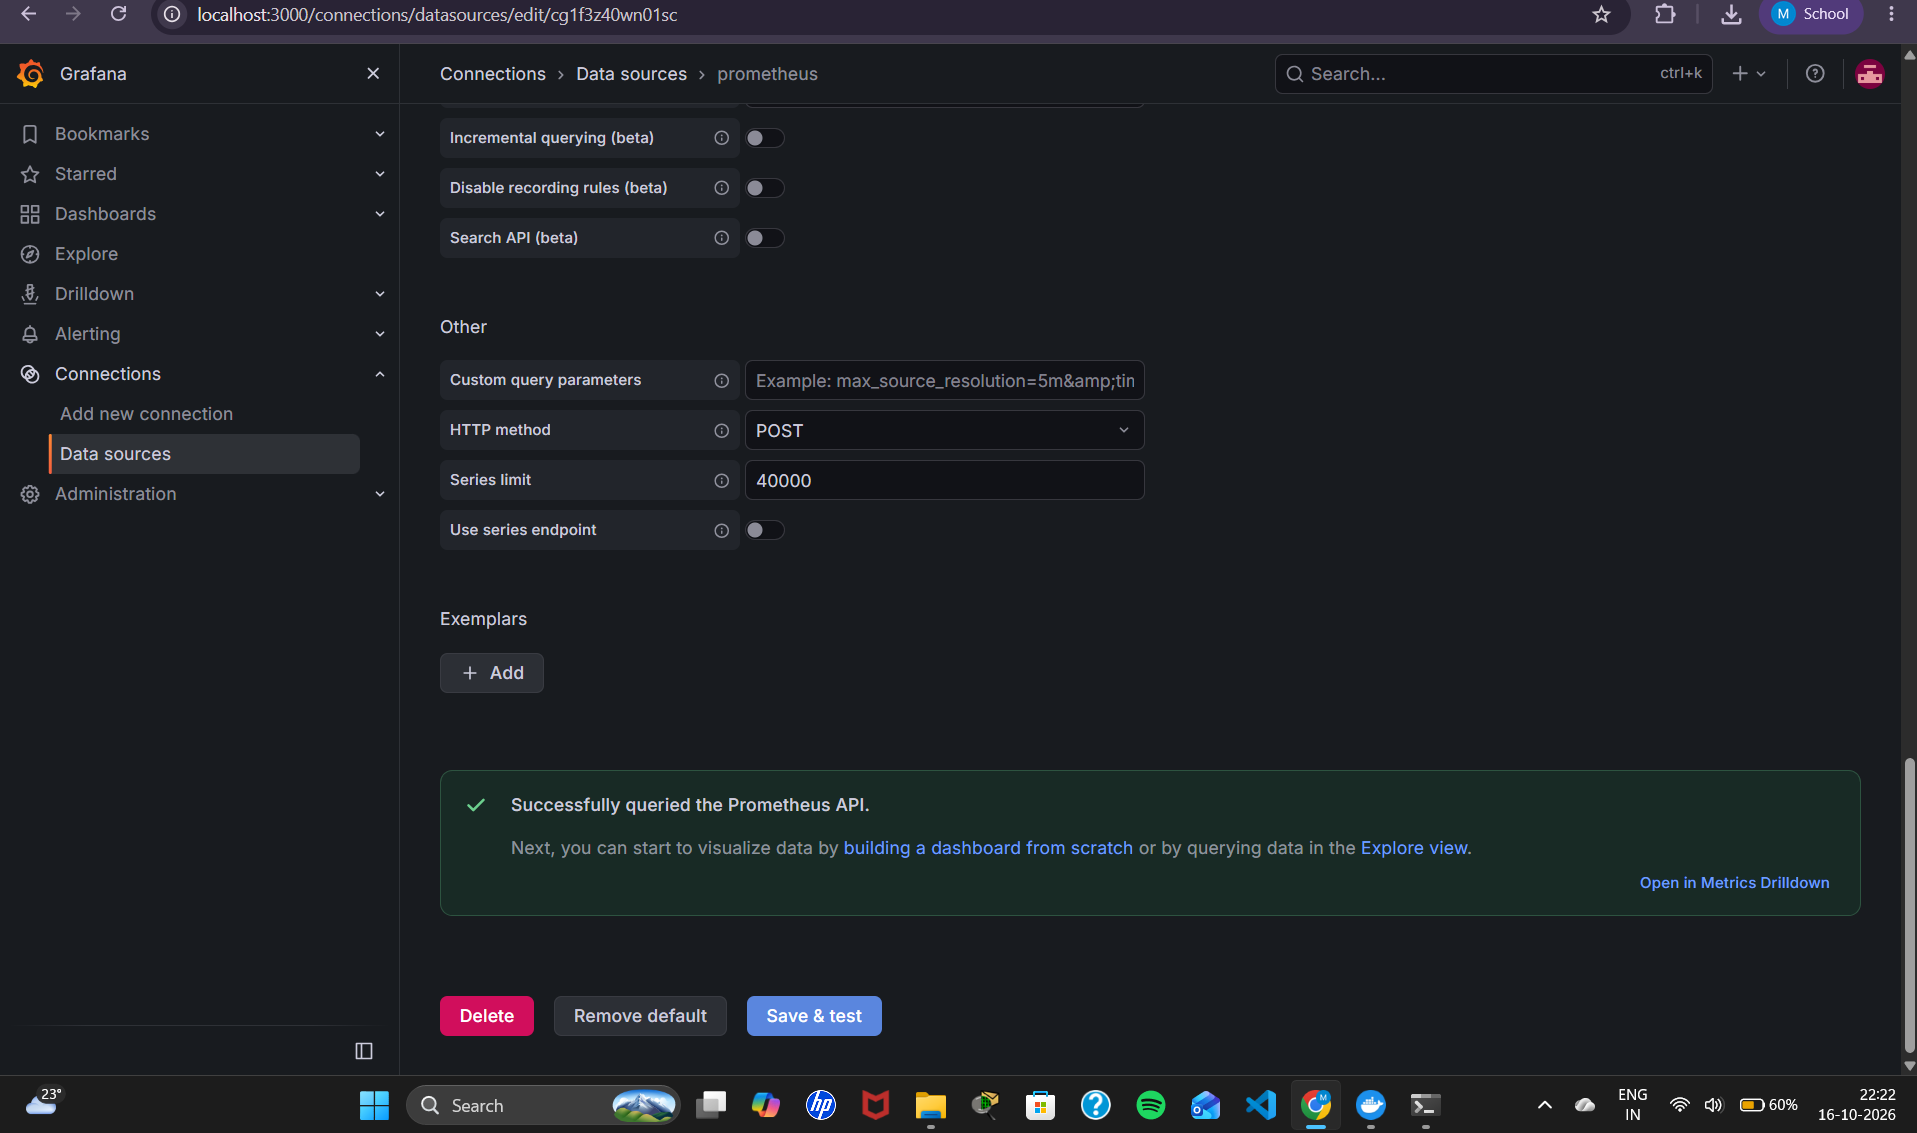
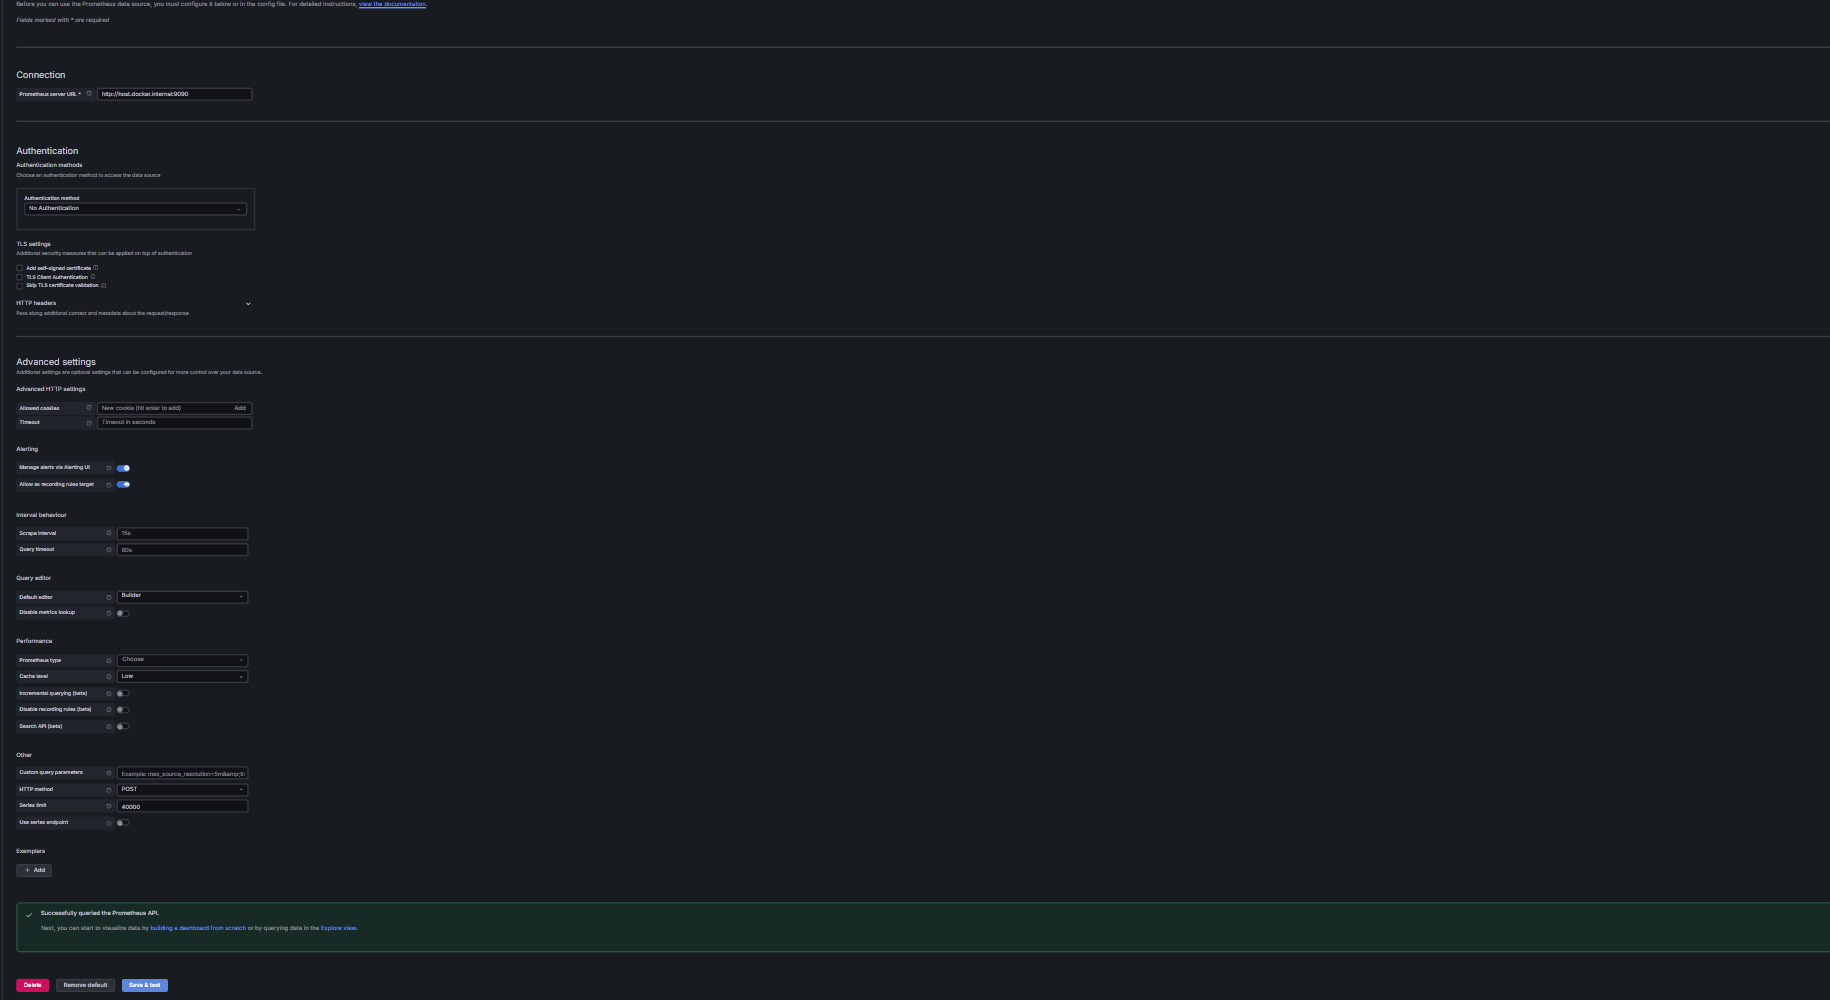
Ex6: redo with host.docker.internal as in manual, simulate alerts

diff --git a/06-Grafana-Prometheus-Monitoring/delivery_metrics.py b/06-Grafana-Prometheus-Monitoring/delivery_metrics.py
@@ -18,10 +18,10 @@ def simulate_delivery():
 
     total = pending + on_the_way + delivered
 
-    print(f"[DEBUG] Total deliveries: {total}", flush=True)
-    print(f"[DEBUG] Pending deliveries: {pending}", flush=True)
-    print(f"[DEBUG] On-the-way deliveries: {on_the_way}", flush=True)
-    print(f"[DEBUG] Average delivery time: {avg_time:.2f} seconds", flush=True)
+    print(f"[DEBUG] Total deliveries: {total}")
+    print(f"[DEBUG] Pending deliveries: {pending}")
+    print(f"[DEBUG] On-the-way deliveries: {on_the_way}")
+    print(f"[DEBUG] Average delivery time: {avg_time:.2f} seconds")
 
     total_deliveries.set(total)
     pending_deliveries.set(pending)
@@ -29,10 +29,10 @@ def simulate_delivery():
     average_delivery_time.observe(avg_time)
 
 if __name__ == "__main__":
-    print("[INFO] Starting the HTTP server on port 8000...", flush=True)
+    print("[INFO] Starting the HTTP server on port 8000...")
     start_http_server(8000, addr="0.0.0.0")
-    print("[INFO] HTTP server started. Simulating deliveries...", flush=True)
+    print("[INFO] HTTP server started. Simulating deliveries...")
     while True:
         simulate_delivery()
-        print("[INFO] Sleeping for 1 seconds...", flush=True)
+        print("[INFO] Sleeping for 1 seconds...")
         time.sleep(1)

diff --git a/06-Grafana-Prometheus-Monitoring/README.md b/06-Grafana-Prometheus-Monitoring/README.md
@@ -1,16 +1,17 @@
-# Exercise 6: Real-Time Operations Monitoring and Alerting (Prometheus + Grafana)
+# Exercise 6: Real-Time Operations Monitoring and Alerting (Prometheus + Grafana + Jenkins)
 
 ## Objective
-As a DevOps engineer at ZAPPTTO (a fast-paced delivery service), build a monitoring setup that gives real-time insights into delivery performance: simulate delivery metrics with Python, collect them with Prometheus, raise alerts, and visualise them on a Grafana dashboard.
+As a DevOps engineer at ZAPPTTO (a fast-paced delivery service), build a monitoring setup that gives real-time insights into delivery performance: simulate delivery metrics with Python, collect them with Prometheus, raise alerts, visualise them on a Grafana dashboard, and automate the deployment with Jenkins.
 
 ## Files
 | File | Purpose |
 |------|---------|
 | `delivery_metrics.py` | Python app that simulates delivery metrics every second and exposes them at `/metrics` on port 8000 |
-| `Dockerfile` | Builds the delivery metrics app into a container image |
 | `prometheus.yml` | Prometheus scrape config (scrapes itself and the delivery service) |
 | `alert_rules.yml` | Alert rules: HighPendingDeliveries and HighAverageDeliveryTime |
-| `grafana-dashboard.json` | Grafana dashboard with 4 panels (import via Dashboards → New → Import) |
+| `grafana-dashboard.json` | Grafana dashboard with the 4 panels from the manual |
+| `Dockerfile` | Builds the delivery metrics app into an image (used by the Jenkins pipeline) |
+| `Dockerfile.prometheus` | Prometheus image with the two config files copied in (used by the Jenkins pipeline) |
 | `Jenkinsfile` | Jenkins pipeline that builds and runs the whole monitoring stack |
 
 ## Metrics
@@ -23,63 +24,69 @@ As a DevOps engineer at ZAPPTTO (a fast-paced delivery service), build a monitor
 
 ## Steps and Commands
 
-### 1. Run the app locally and check metrics
+### Step 1: Run the Python application
 ```bash
 sudo apt install -y python3-prometheus-client
 python3 delivery_metrics.py
 ```
-Open `http://localhost:8000/metrics`.
+Metrics: `http://localhost:8000/metrics`
 
-### 2. Build the app image and create a network
-```bash
-docker network create monitoring
-docker build -t delivery_metrics .
+### Step 2: Configure and run Prometheus
+`prometheus.yml`:
+```yaml
+scrape_configs:
+  - job_name: "prometheus"
+    static_configs:
+      - targets: ["localhost:9090"]
+
+  - job_name: "delivery_service"
+    static_configs:
+      - targets: ["host.docker.internal:8000"]
+
+rule_files:
+  - /etc/prometheus/alert_rules.yml
 ```
-
-### 3. Run the app, Prometheus and Grafana
+Run Prometheus:
 ```bash
-docker run -d --name delivery_metrics --network monitoring -p 8000:8000 delivery_metrics
-
-docker run -d --name prometheus --network monitoring -p 9090:9090 \
-  -v "$(pwd)/prometheus.yml:/etc/prometheus/prometheus.yml" \
-  -v "$(pwd)/alert_rules.yml:/etc/prometheus/alert_rules.yml" \
-  prom/prometheus
-
-docker run -d --name grafana --network monitoring -p 3000:3000 grafana/grafana
-
-docker ps
+docker run -d --name prometheus -p 9090:9090 --add-host=host.docker.internal:host-gateway -v ./prometheus.yml:/etc/prometheus/prometheus.yml -v ./alert_rules.yml:/etc/prometheus/alert_rules.yml prom/prometheus
 ```
-
-### 4. Verify in Prometheus
 - Targets: `http://localhost:9090/targets`
 - Alerts: `http://localhost:9090/alerts`
 
-### 5. Set up Grafana
-- Open `http://localhost:3000` and log in with `admin` / `admin` (skip the password change)
-- Connections → Data sources → Add → Prometheus → URL `http://prometheus:9090` → Save & test
-- Dashboards → New → Import → paste `grafana-dashboard.json` → Load → Import
+### Step 3: Set up Grafana
+```bash
+docker run -d --name grafana -p 3000:3000 grafana/grafana
+docker ps
+```
+- Open `http://localhost:3000`, log in with `admin` / `admin`, and skip the password update
+- Connections → Data sources → Add data source → Prometheus → URL `http://host.docker.internal:9090` → Save & test
+- Dashboards → New → Import → upload `grafana-dashboard.json` → Import. Panels:
+  - Total Deliveries (`total_deliveries`)
+  - Pending Deliveries (`pending_deliveries`)
+  - On-the-Way Deliveries (`on_the_way_deliveries`)
+  - Average Delivery Time (`average_delivery_time_sum / average_delivery_time_count`)
 
 ## Changes from the Lab Manual (Windows + Docker Desktop)
-- The manual uses `--network=host` and the Linux host IP `172.17.0.1`, which don't work with Docker Desktop on Windows. Instead, all three containers run on a user-defined network (`monitoring`) and reach each other by container name (`delivery_metrics:8000`, `prometheus:9090`).
-- `scrape_interval` set to 5s so graphs fill up faster.
-- `prometheus-client` installed with `apt` because newer Ubuntu blocks system-wide `pip install`.
-- The Jenkinsfile uses files from the Git checkout instead of a hard-coded local path.
+- The manual's own note says to use **`host.docker.internal`** on Windows, and `172.17.0.1` on Linux. This was done on Windows with Docker Desktop, so the Prometheus target is `host.docker.internal:8000` and the Grafana data source is `http://host.docker.internal:9090`.
+- `--network=host` doesn't publish ports with Docker Desktop on Windows, so Prometheus is run with `-p 9090:9090` and `--add-host=host.docker.internal:host-gateway` instead. Everything else in the command is the same as the manual's.
+- `prometheus-client` is installed with `apt` because newer Ubuntu blocks system-wide `pip install`.
+- The dashboard panels were saved in `grafana-dashboard.json` and imported, instead of being created by hand (same 4 panels and queries as the manual).
 
 ## Output Screenshots
 
-### Delivery metrics app running
+### Step 1: Delivery metrics app running
 ![App Running](screenshots/1.png)
 
-### Metrics endpoint
+### Step 1: Metrics endpoint
 ![Metrics Endpoint](screenshots/2.png)
 
-### App, Prometheus and Grafana containers running
+### Prometheus and Grafana containers running
 ![Docker PS](screenshots/3.png)
 
-### Prometheus targets UP
+### Prometheus targets UP (delivery_service via host.docker.internal:8000)
 ![Prometheus Targets](screenshots/4.png)
 
-### Prometheus alert firing
+### Prometheus alert rules loaded
 ![Prometheus Alerts](screenshots/5.png)
 
 ### Grafana connected to Prometheus
@@ -88,13 +95,7 @@ docker ps
 ### Grafana delivery monitoring dashboard
 ![Grafana Dashboard](screenshots/7.png)
 
-## Learnings
-- `start_http_server` from `prometheus_client` automatically creates the `/metrics` endpoint.
-- Metric types: **Counter** (only goes up), **Gauge** (goes up and down), **Histogram** (bucketed distribution), **Summary** (count/sum/quantiles).
-- Prometheus **scrapes** (pulls) metrics from targets at a fixed interval and evaluates **alert rules** on them.
-- Grafana uses Prometheus as a **data source** and visualises queries as dashboard panels.
-
-## Jenkins Pipeline (Step 5 of the manual)
+## Step 5: Jenkins Pipeline
 
 The whole monitoring stack is deployed automatically by a Jenkins pipeline defined in `Jenkinsfile`.
 
@@ -120,13 +121,13 @@ docker exec jenkins git config --global --add safe.directory '*'
 |-------|-------------|
 | Pre-check Docker | Checks Docker is installed and the daemon is running |
 | Setup Workspace | Lists the files checked out from Git |
-| Build Docker Image | Builds `delivery_metrics` and `delivery_prometheus` images |
+| Build Docker Image | Builds the `delivery_metrics` and `delivery_prometheus` images |
 | Create Network | Creates the `monitoring` Docker network |
-| Run Application | Starts the delivery metrics app |
+| Run Application | Starts the delivery metrics app in a container (port 8000) |
 | Run Prometheus & Grafana | Starts Prometheus and Grafana |
-| Verify | Checks containers are up and Prometheus can read the delivery metrics |
+| Verify | Checks the containers are up and the delivery metrics can be read |
 
-> Note: Prometheus config files are copied into a small custom image (`Dockerfile.prometheus`) instead of being bind-mounted, because paths inside the Jenkins container don't exist on the Docker host.
+> Notes: inside Jenkins, the app runs as a container instead of a host script, and the Prometheus config files are copied into a small image (`Dockerfile.prometheus`) instead of being bind-mounted, because paths inside the Jenkins container don't exist on the Docker host. The Jenkinsfile uses files from the Git checkout instead of a hard-coded local path.
 
 ### Jenkins pipeline configuration
 ![Pipeline Config](screenshots/8.png)
@@ -143,22 +144,31 @@ docker exec jenkins git config --global --add safe.directory '*'
 ~~~python
 pending = random.randint(50, 100)  # Increase range to exceed alert threshold
 ~~~
-The app and Prometheus were then restarted:
+Then the Python script and Prometheus were restarted, as the manual says:
 ~~~bash
-docker rm -f delivery_metrics prometheus grafana
-docker build -t delivery_metrics .
-docker build -t delivery_prometheus -f Dockerfile.prometheus .
-docker run -d --name delivery_metrics --network monitoring -p 8000:8000 delivery_metrics
-docker run -d --name prometheus --network monitoring -p 9090:9090 delivery_prometheus
-docker run -d --name grafana --network monitoring -p 3000:3000 grafana/grafana
-~~~
-Result: `pending_deliveries` jumps to 50-100 and both alerts fire. (The file in this repo was set back to `randint(10, 20)` afterwards.)
+# Ctrl + C to stop the old script, then:
+python3 delivery_metrics.py
 
-### Pending range changed to 50-100
+docker restart prometheus
+~~~
+Result: `pending_deliveries` jumps from 10-20 to 50-100, and the **HighPendingDeliveries** alert fires in both the Prometheus UI and Grafana. `HighAverageDeliveryTime` stays normal, because only the pending range was changed. (The file in this repo was set back to `randint(10, 20)` afterwards, to match Step 1.)
+
+### Code changed to 50-100 and script restarted
 ![Code Change](screenshots/11.png)
 
-### Prometheus query graph: pending_deliveries
+### Prometheus graph: pending_deliveries jumps above the threshold
 ![Prometheus Graph](screenshots/12.png)
 
-### Both alerts firing
+### Prometheus UI: HighPendingDeliveries firing
 ![Alerts Firing](screenshots/13.png)
+
+### Grafana: HighPendingDeliveries firing
+![Grafana Alerts](screenshots/14.png)
+
+## Learnings
+- `start_http_server` from `prometheus_client` automatically creates the `/metrics` endpoint.
+- Metric types: **Counter** (only goes up), **Gauge** (goes up and down), **Histogram** (bucketed distribution), **Summary** (count/sum/quantiles).
+- Prometheus **scrapes** (pulls) metrics from targets at a fixed interval and evaluates **alert rules** on them. An alert goes from Inactive → Pending → Firing after its `for:` time.
+- `host.docker.internal` lets a container reach a service running on the host machine.
+- Grafana uses Prometheus as a **data source**, shows the queries as dashboard panels, and also lists Prometheus alert rules.
+- Jenkins can automate the whole build-and-deploy of the monitoring stack.
